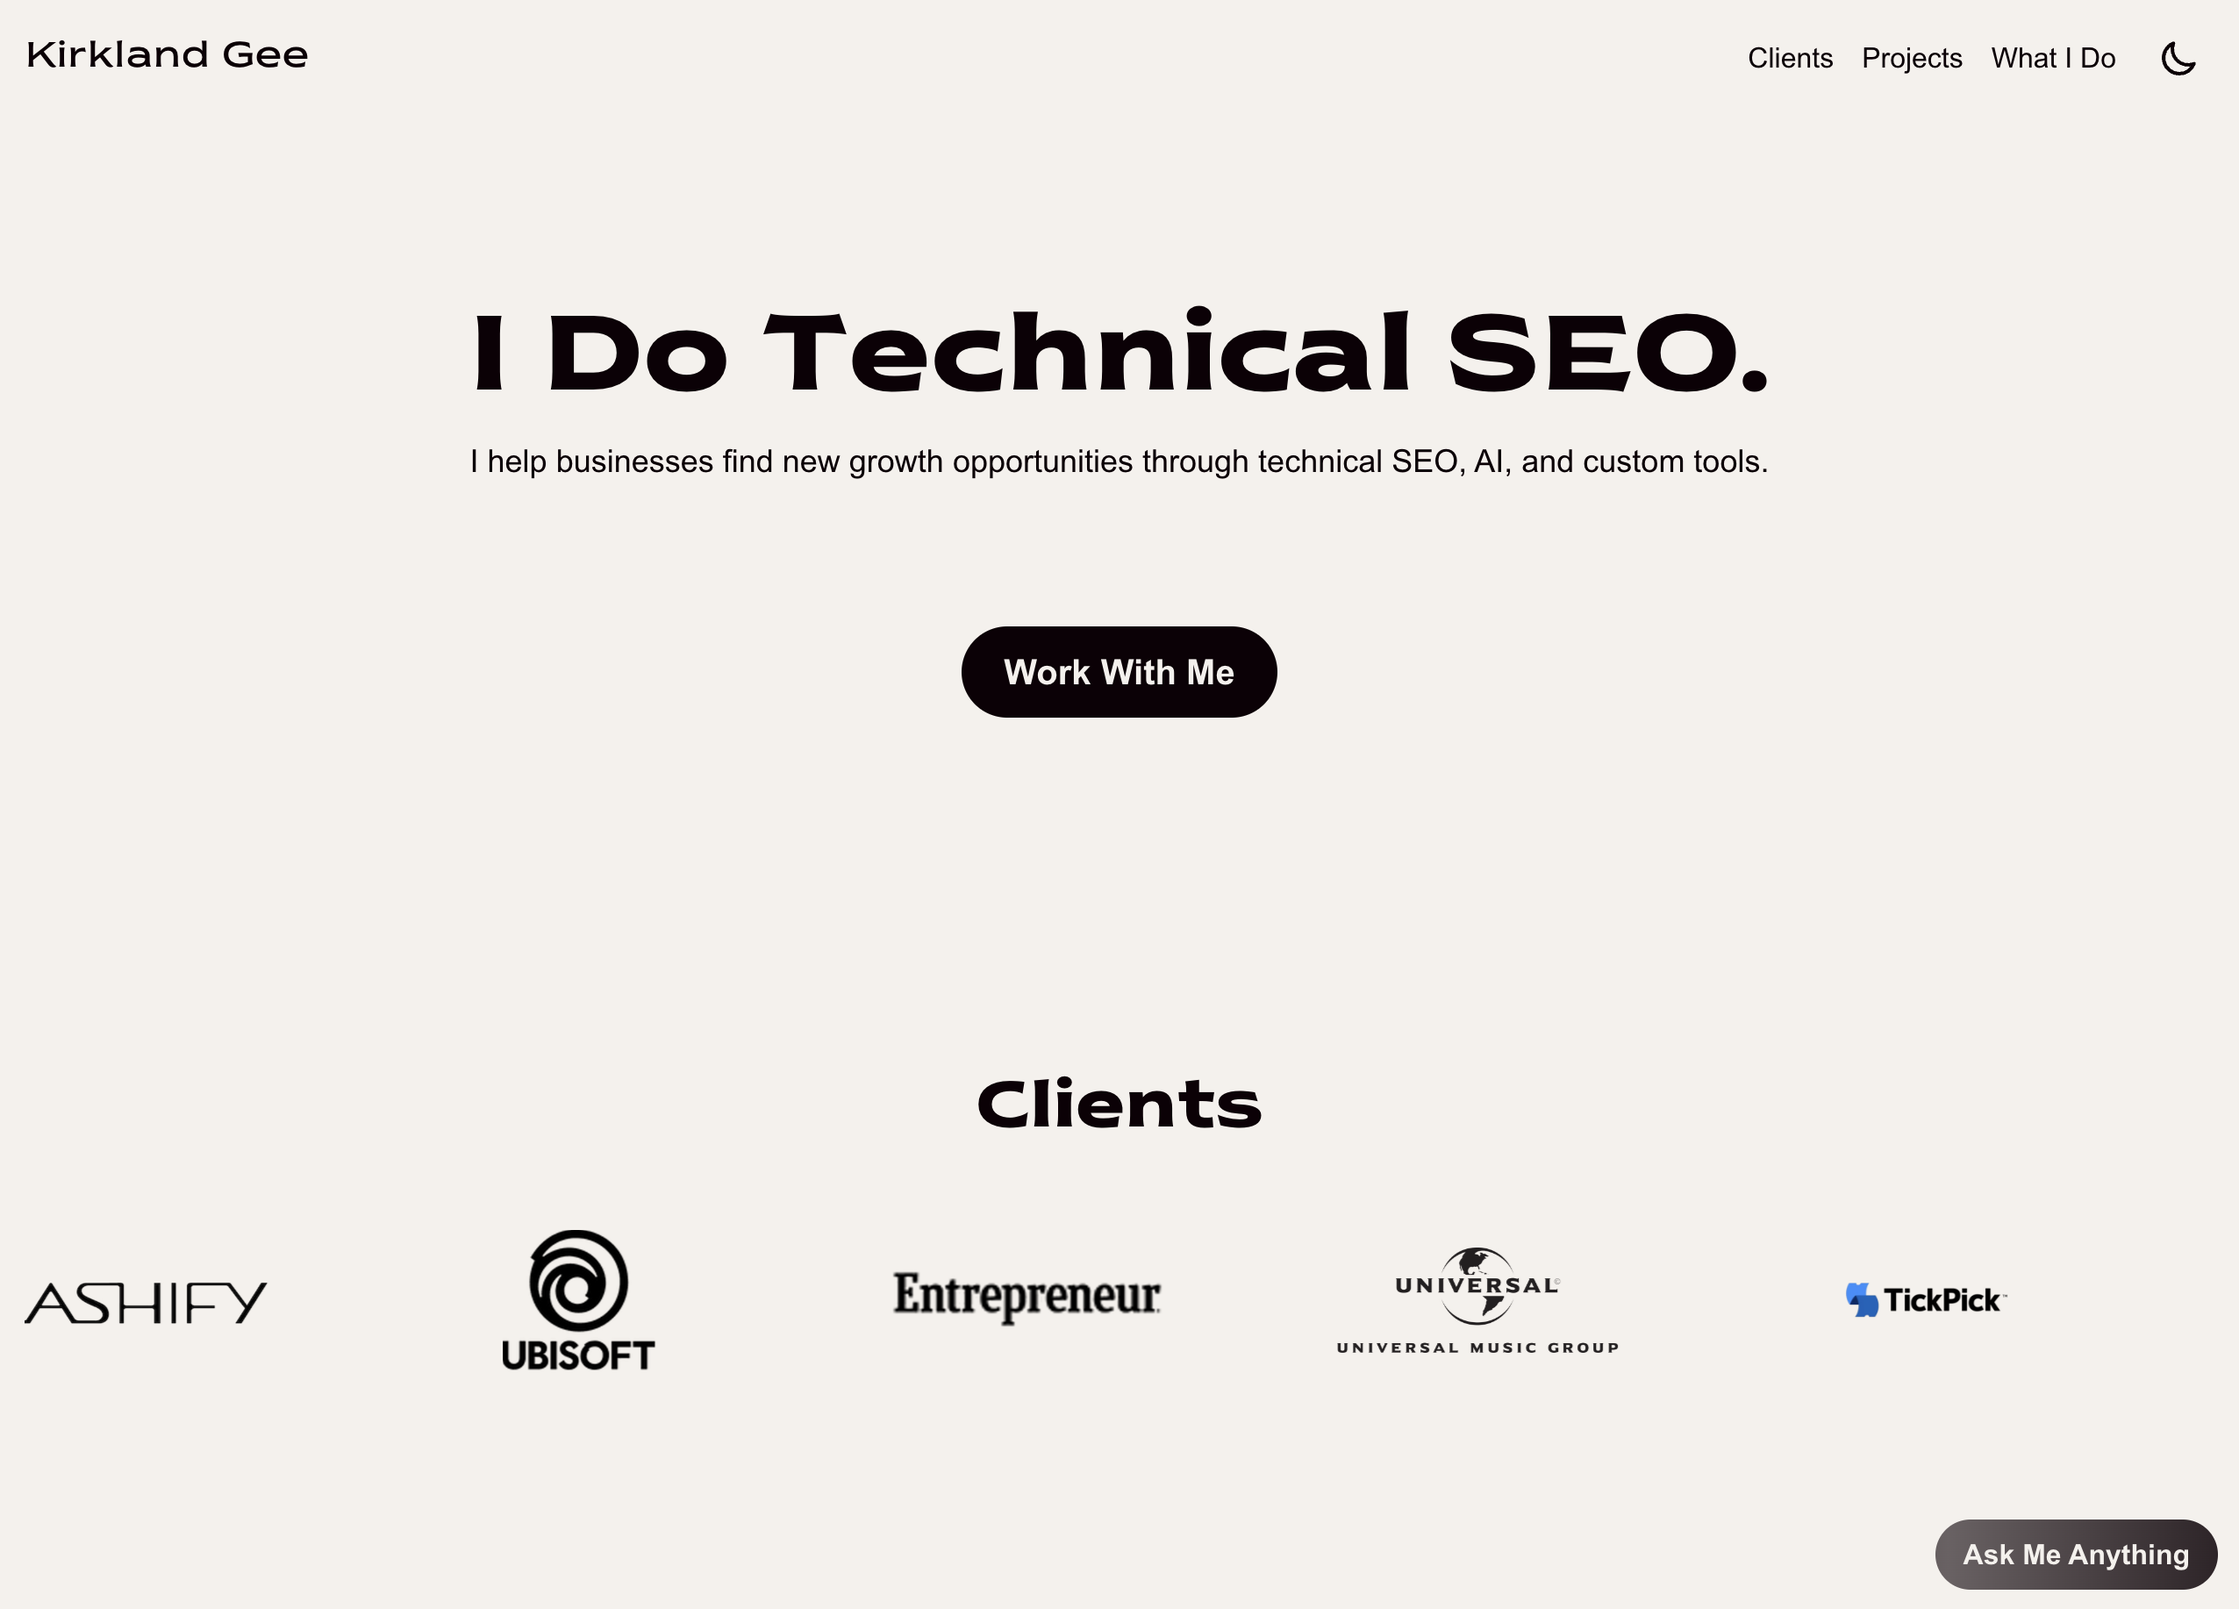
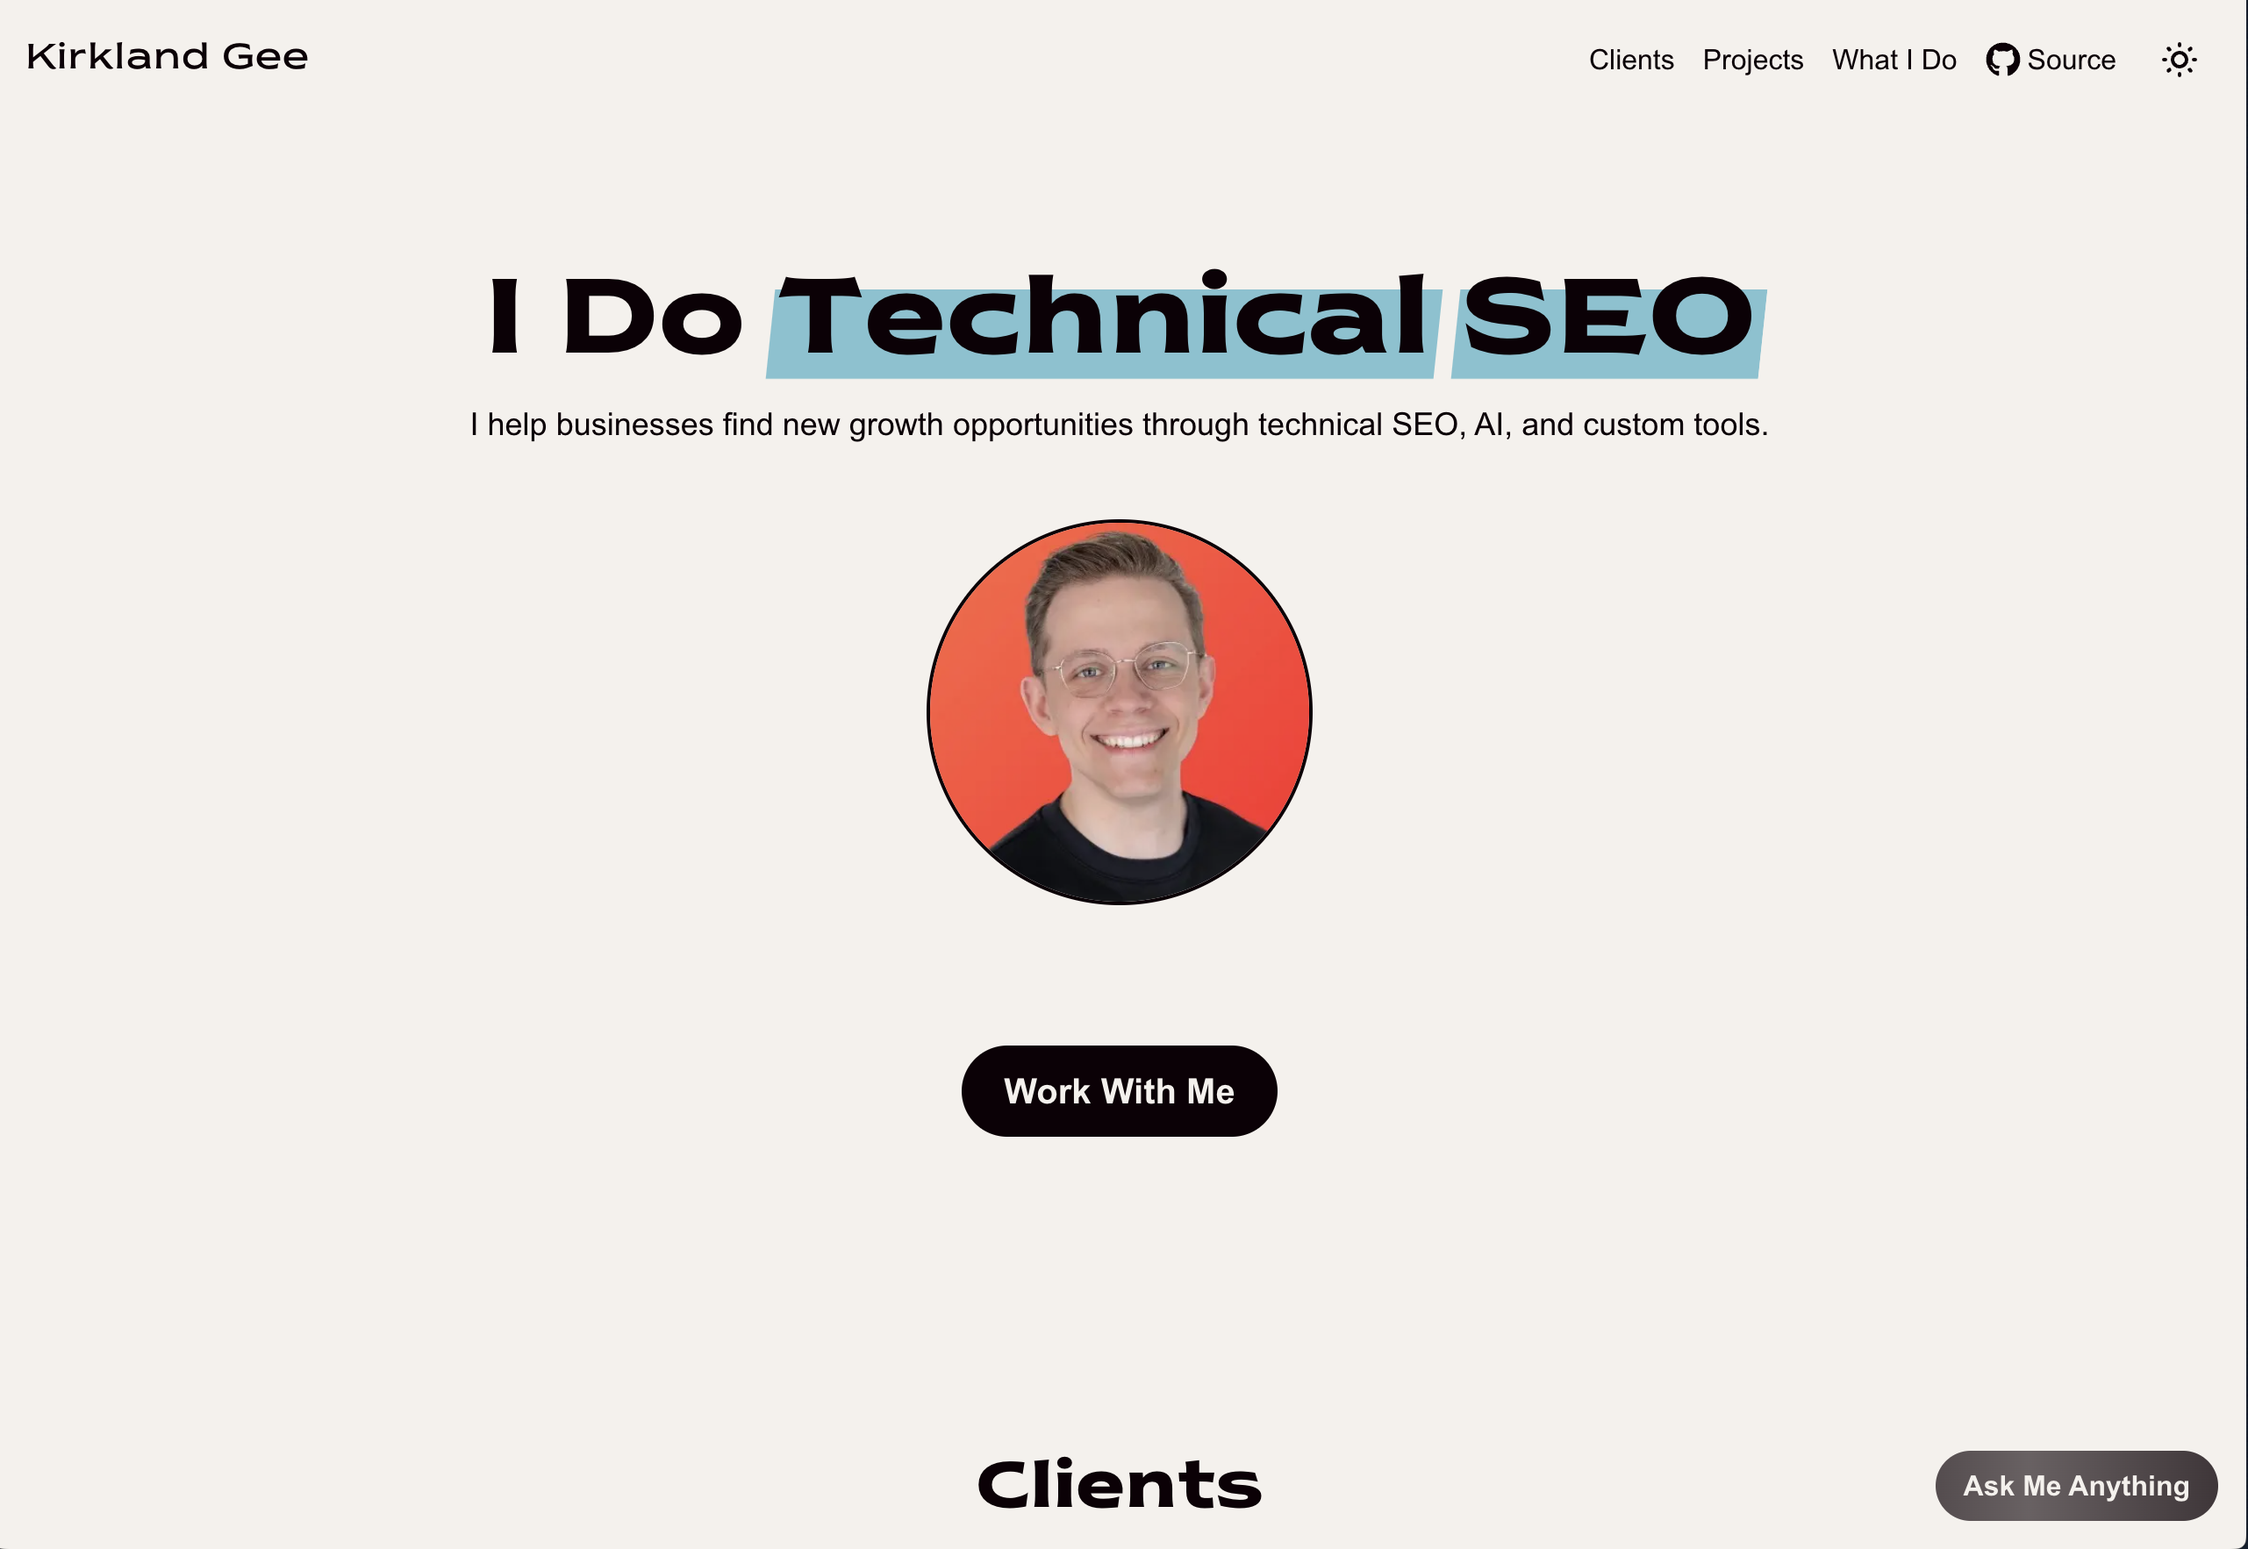
Hero improvements, add CTA to skills, header updates, fix OG image

diff --git a/app/components/Header.tsx b/app/components/Header.tsx
@@ -1,46 +1,24 @@
 'use client'
 
 import Link from 'next/link'
-import { useEffect, useState } from 'react'
+import { useState, useEffect } from 'react'
+import { FaGithub } from 'react-icons/fa'
 
 export default function Header() {
   const [darkMode, setDarkMode] = useState(false)
+  const [isOpen, setIsOpen] = useState(false)
 
+  // Close menu when clicking outside
   useEffect(() => {
-    const handleSmoothScroll = (e: MouseEvent) => {
-      e.preventDefault()
-      const target = e.target as HTMLAnchorElement
-      const id = target.getAttribute('href')?.slice(1)
-      if (id) {
-        const element = document.getElementById(id)
-        if (element) {
-          const elementPosition = element.getBoundingClientRect().top + window.scrollY - 50; // Add 50px offset
-          window.scrollTo({
-            top: elementPosition,
-            behavior: 'smooth'
-          })
-        }
+    const closeMenu = (e: MouseEvent) => {
+      const target = e.target as HTMLElement
+      if (isOpen && !target.closest('nav') && !target.closest('button')) {
+        setIsOpen(false)
       }
     }
-
-    const links = document.querySelectorAll('nav a[href^="#"]')
-    links.forEach(link => {
-      link.addEventListener('click', handleSmoothScroll as EventListener)
-    })
-
-    // New dark mode logic
-    const isDarkMode = localStorage.getItem('darkMode') === 'true'
-    setDarkMode(isDarkMode)
-    if (isDarkMode) {
-      document.documentElement.classList.add('dark')
-    }
-
-    return () => {
-      links.forEach(link => {
-        link.removeEventListener('click', handleSmoothScroll as EventListener)
-      })
-    }
-  }, [])
+    document.addEventListener('click', closeMenu)
+    return () => document.removeEventListener('click', closeMenu)
+  }, [isOpen])
 
   const toggleDarkMode = () => {
     const newDarkMode = !darkMode
@@ -50,27 +28,76 @@ export default function Header() {
   }
 
   return (
-    <header className="bg-isabelline text-licorice dark:bg-licorice dark:text-isabelline py-4 sticky top-0 z-10">
-      <div className="container mx-auto px-4 flex justify-between items-center">
-        <Link href="/" className="text-xl font-florent font-regular">Kirkland Gee</Link>
-        <nav className="flex items-center">
-          <ul className="flex space-x-4 mr-4">
-            <li><a href="#clients" className="hover:text-[#D0B8A8] transition duration-300">Clients</a></li>
-            <li><a href="#projects" className="hover:text-[#D0B8A8] transition duration-300">Projects</a></li>
-            <li><a href="#skills" className="hover:text-[#D0B8A8] transition duration-300">What I Do</a></li>
-          </ul>
-          <button onClick={toggleDarkMode} className="p-2 rounded-full hover:bg-gray-200 dark:hover:bg-gray-700 transition duration-300">
-            {darkMode ? (
-              <svg xmlns="http://www.w3.org/2000/svg" fill="none" viewBox="0 0 24 24" stroke="currentColor" className="w-6 h-6">
-                <path strokeLinecap="round" strokeLinejoin="round" strokeWidth={2} d="M12 3v1m0 16v1m9-9h-1M4 12H3m15.364 6.364l-.707-.707M6.343 6.343l-.707-.707m12.728 0l-.707.707M6.343 17.657l-.707.707M16 12a4 4 0 11-8 0 4 4 0 018 0z" />
-              </svg>
-            ) : (
-              <svg xmlns="http://www.w3.org/2000/svg" fill="none" viewBox="0 0 24 24" stroke="currentColor" className="w-6 h-6">
-                <path strokeLinecap="round" strokeLinejoin="round" strokeWidth={2} d="M20.354 15.354A9 9 0 018.646 3.646 9.003 9.003 0 0012 21a9.003 9.003 0 008.354-5.646z" />
-              </svg>
-            )}
+    <header className="bg-isabelline text-licorice dark:bg-licorice dark:text-isabelline py-4 sticky top-0 z-50">
+      {/* Overlay */}
+      {isOpen && (
+        <div className="fixed inset-0 bg-black/20 backdrop-blur-sm dark:bg-white/20 z-40" 
+             onClick={() => setIsOpen(false)} />
+      )}
+
+      <div className="container mx-auto px-4">
+        <div className="flex justify-between items-center">
+          <Link href="/" className="text-xl font-florent font-regular z-50">Kirkland Gee</Link>
+
+          {/* Hamburger Button */}
+          <button
+            onClick={() => setIsOpen(!isOpen)}
+            className="md:hidden z-50 p-2 hover:bg-gray-200 dark:hover:bg-gray-700 rounded transition-colors"
+            aria-label="Toggle menu"
+          >
+            <div className="w-6 h-5 relative flex flex-col justify-between">
+              <span className={`w-full h-0.5 bg-current transform transition-all duration-300 ${isOpen ? 'rotate-45 translate-y-2' : ''}`} />
+              <span className={`w-full h-0.5 bg-current transition-all duration-300 ${isOpen ? 'opacity-0' : ''}`} />
+              <span className={`w-full h-0.5 bg-current transform transition-all duration-300 ${isOpen ? '-rotate-45 -translate-y-2' : ''}`} />
+            </div>
           </button>
-        </nav>
+
+          {/* Navigation */}
+          <nav className={`
+            fixed md:relative top-0 right-0 h-full md:h-auto w-64 md:w-auto
+            bg-isabelline dark:bg-licorice md:bg-transparent
+            transform ${isOpen ? 'translate-x-0' : 'translate-x-full'} md:translate-x-0
+            transition-transform duration-300 ease-in-out
+            flex flex-col md:flex-row items-start md:items-center
+            pt-20 md:pt-0 px-6 md:px-0
+            z-40 md:z-auto
+          `}>
+            <ul className="flex flex-col md:flex-row space-y-4 md:space-y-0 md:space-x-4 w-full md:w-auto md:mr-4">
+              <li><a href="#clients" onClick={() => setIsOpen(false)} className="block hover:text-moonstone transition duration-300">Clients</a></li>
+              <li><a href="#projects" onClick={() => setIsOpen(false)} className="block hover:text-moonstone transition duration-300">Projects</a></li>
+              <li><a href="#skills" onClick={() => setIsOpen(false)} className="block hover:text-moonstone transition duration-300">What I Do</a></li>
+              <li>
+                <a 
+                  href="https://github.com/KirklandGee/react-portfolio"
+                  target="_blank"
+                  rel="noopener noreferrer"
+                  className="flex items-center space-x-1 hover:text-moonstone transition duration-300"
+                >
+                  <FaGithub className="w-5 h-5" />
+                  <span>Source</span>
+                </a>
+              </li>
+            </ul>
+            
+            <button 
+              onClick={() => {
+                toggleDarkMode();
+                setIsOpen(false);
+              }} 
+              className="mt-4 md:mt-0 p-2 rounded-full hover:bg-gray-200 dark:hover:bg-gray-700 transition duration-300"
+            >
+              {darkMode ? (
+                <svg xmlns="http://www.w3.org/2000/svg" fill="none" viewBox="0 0 24 24" stroke="currentColor" className="w-6 h-6">
+                  <path strokeLinecap="round" strokeLinejoin="round" strokeWidth={2} d="M12 3v1m0 16v1m9-9h-1M4 12H3m15.364 6.364l-.707-.707M6.343 6.343l-.707-.707m12.728 0l-.707.707M6.343 17.657l-.707.707M16 12a4 4 0 11-8 0 4 4 0 018 0z" />
+                </svg>
+              ) : (
+                <svg xmlns="http://www.w3.org/2000/svg" fill="none" viewBox="0 0 24 24" stroke="currentColor" className="w-6 h-6">
+                  <path strokeLinecap="round" strokeLinejoin="round" strokeWidth={2} d="M20.354 15.354A9 9 0 018.646 3.646 9.003 9.003 0 0012 21a9.003 9.003 0 008.354-5.646z" />
+                </svg>
+              )}
+            </button>
+          </nav>
+        </div>
       </div>
     </header>
   )

diff --git a/app/page.tsx b/app/page.tsx
@@ -6,15 +6,30 @@ import Footer from './components/Footer'
 import Chatbot from './components/Chatbot'
 import Button from './components/Button'
 import KeyStats from './components/KeyStats'
-
+import Image from 'next/image'
 export default function App() {
   return (
     <div className="min-h-screen bg-background text-foreground">
       <Header />
       <main className="container mx-auto px-4 py-8">
-        <div className="flex flex-col justify-center items-center h-96">
-          <h1 className="text-6xl font-florent font-bold text-center">I Do Technical SEO.</h1>
+        <div className="flex flex-col justify-center items-center min-h-[600px]">
+          <h1 className="text-6xl font-florent font-bold text-center mt-15">
+            I Do <span className="relative inline-block">
+              <span className="relative z-10">
+                <span className="relative inline-block">
+                  <span className="relative z-10">Technical</span>
+                  <span className="absolute -inset-1 top-[15%] h-[85%] bg-moonstone/60 transform origin-left scale-x-0 -skew-x-10 animate-highlight"></span>
+                </span>
+                {" "}
+                <span className="relative inline-block">
+                  <span className="relative z-10">SEO</span>
+                  <span className="absolute -inset-1 top-[15%] h-[85%] bg-moonstone/60 transform origin-left scale-x-0 -skew-x-10 animate-highlightDelayed opacity-0"></span>
+                </span>
+              </span>
+            </span>
+          </h1>
           <p className="text-lg text-center mt-3">I help businesses find new growth opportunities through technical SEO, AI, and custom tools.</p>
+          <Image src="/images/kirkland_headshot.jpeg" alt="Kirkland Headshot" width={220} height={220} className="mt-10 border-full border-2 border-licorice dark:border-isabelline rounded-full"/>  
           <Button className="mt-20 bg-licorice text-isabelline ease-in-out hover:animate-glow text-xl py-3 px-6">
             <a target="_blank" rel="noopener noreferrer" href="https://forms.clickup.com/9011305725/f/8chv77x-2771/NNJ6RB2QJWGUVH99LY">
               Work With Me

diff --git a/tailwind.config.ts b/tailwind.config.ts
@@ -32,6 +32,9 @@ const config: Config = {
         scroll: 'scroll 10s linear infinite',
         glow: 'glow 2s ease-in-out infinite',
         glisten: 'glisten 6s ease-in-out infinite',
+        highlight: 'highlight 1s cubic-bezier(0.645, 0.045, 0.355, 1) forwards',
+        tilt: 'tilt 2s ease-in-out infinite',
+        highlightDelayed: 'highlight 1s cubic-bezier(0.645, 0.045, 0.355, 1) 0.6s forwards'
       },
       keyframes: {
         scroll: {
@@ -46,6 +49,20 @@ const config: Config = {
           '0%, 100%': { backgroundPosition: '100% center' },
           '50%': { backgroundPosition: '0% center' },
         },
+        highlight: {
+          '0%': { 
+            transform: 'scaleX(0) skewX(-6deg)',
+            opacity: '1'
+          },
+          '100%': { 
+            transform: 'scaleX(1) skewX(-6deg)',
+            opacity: '1'
+          }
+        },
+        tilt: {
+          '0%, 100%': { transform: 'rotate(-1deg)' },
+          '50%': { transform: 'rotate(1deg)' }
+        }
       },
       backgroundImage: {
         'gradient-top': 'linear-gradient(0deg, #f5f1edff, #08a4bdff, #0d0106ff, #c14953ff, #09814aff)',

diff --git a/app/components/Skills.tsx b/app/components/Skills.tsx
@@ -3,6 +3,7 @@
 import { useEffect, useRef } from 'react'
 import * as d3 from 'd3'
 import Image from 'next/image'
+import Button from './Button';
 
 interface SkillNode extends d3.SimulationNodeDatum {
   id: string;
@@ -264,6 +265,11 @@ return (
             I&apos;m passionate about helping people unlock growth at scale through engineering and data. <br /><br />
             If you&apos;re trying to grow organic search traffic, but you find yourself blocked by technical issues or repetitive tasks that keep you from doing what you do best, I&apos;d love to chat.
           </p>
+          <Button className="mt-20 mx-auto bg-licorice text-isabelline ease-in-out hover:animate-glow text-xl py-3 px-6 w-1/2">
+            <a target="_blank" rel="noopener noreferrer" href="https://forms.clickup.com/9011305725/f/8chv77x-2771/NNJ6RB2QJWGUVH99LY">
+              Let&apos;s Chat
+            </a>
+          </Button>
         </div>
         <div className="flex flex-col col-span-2">
           <div className="hidden md:flex flex-col items-center justify-center col-span-2">

diff --git a/app/layout.tsx b/app/layout.tsx
@@ -28,7 +28,7 @@ export const metadata: Metadata = {
     type: 'website',
     images: [
       {
-        url: `${siteUrl}/opengraph-image.png`,
+        url: `https://kirklandgee.com/opengraph-image.png`,
         width: 1200,
         height: 630,
         alt: 'Kirkland Gee - Technical SEO Consultant & Developer',
@@ -40,7 +40,7 @@ export const metadata: Metadata = {
     title: "Technical SEO Consultant & Developer | Kirkland Gee",
     description: "Kirkland Gee is a technical SEO consultant and developer with a passion for creating fast, accessible, and secure websites.",
     creator: '@KirklandGee',
-    images: [`${siteUrl}/opengraph-image.png`],
+    images: [`https://kirklandgee.com/opengraph-image.png`],
   },
 };
 

diff --git a/app/globals.css b/app/globals.css
@@ -62,6 +62,11 @@ body {
   .animate-glisten {
     animation: glisten 8s ease-in-out infinite;
   }
+  .nav-transition {
+    transition-property: transform, opacity, visibility;
+    transition-duration: 200ms;
+    transition-timing-function: cubic-bezier(0.4, 0, 0.2, 1);
+  }
 }
 
 @keyframes scroll {
